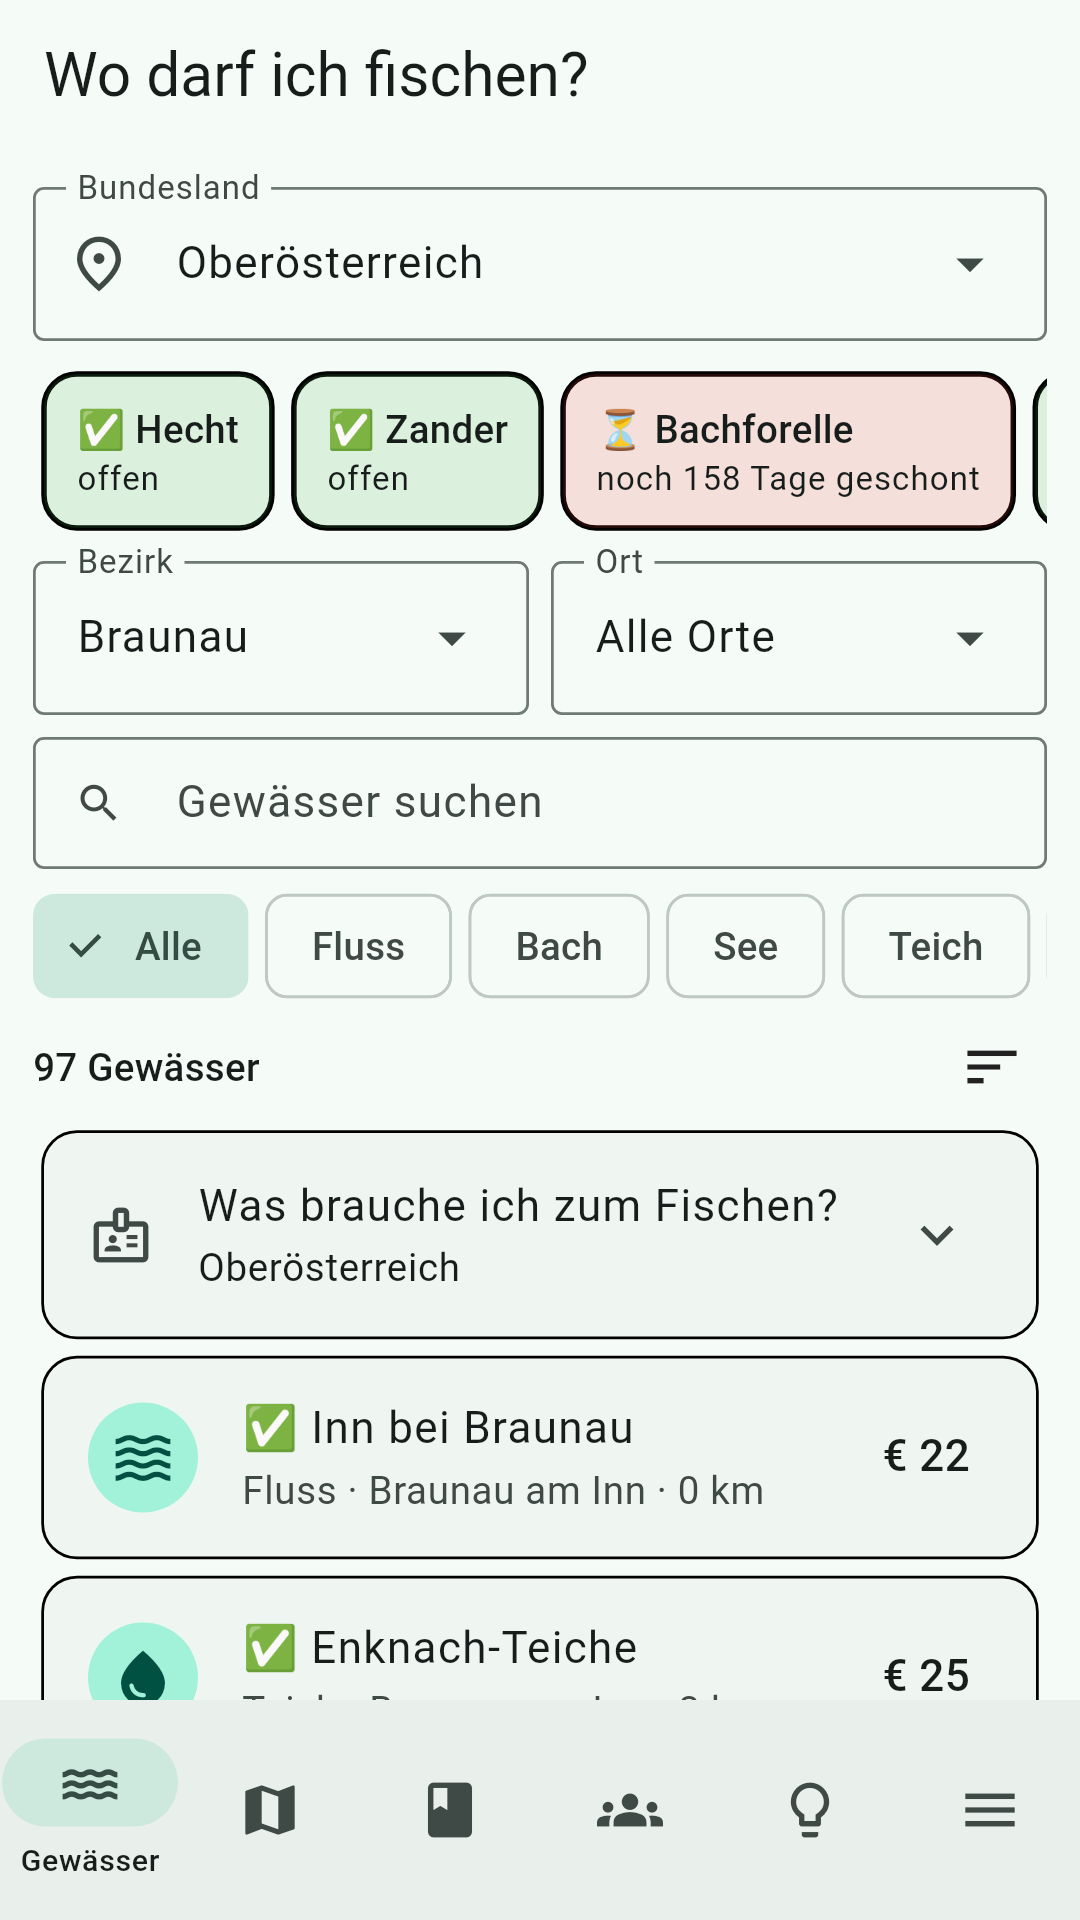
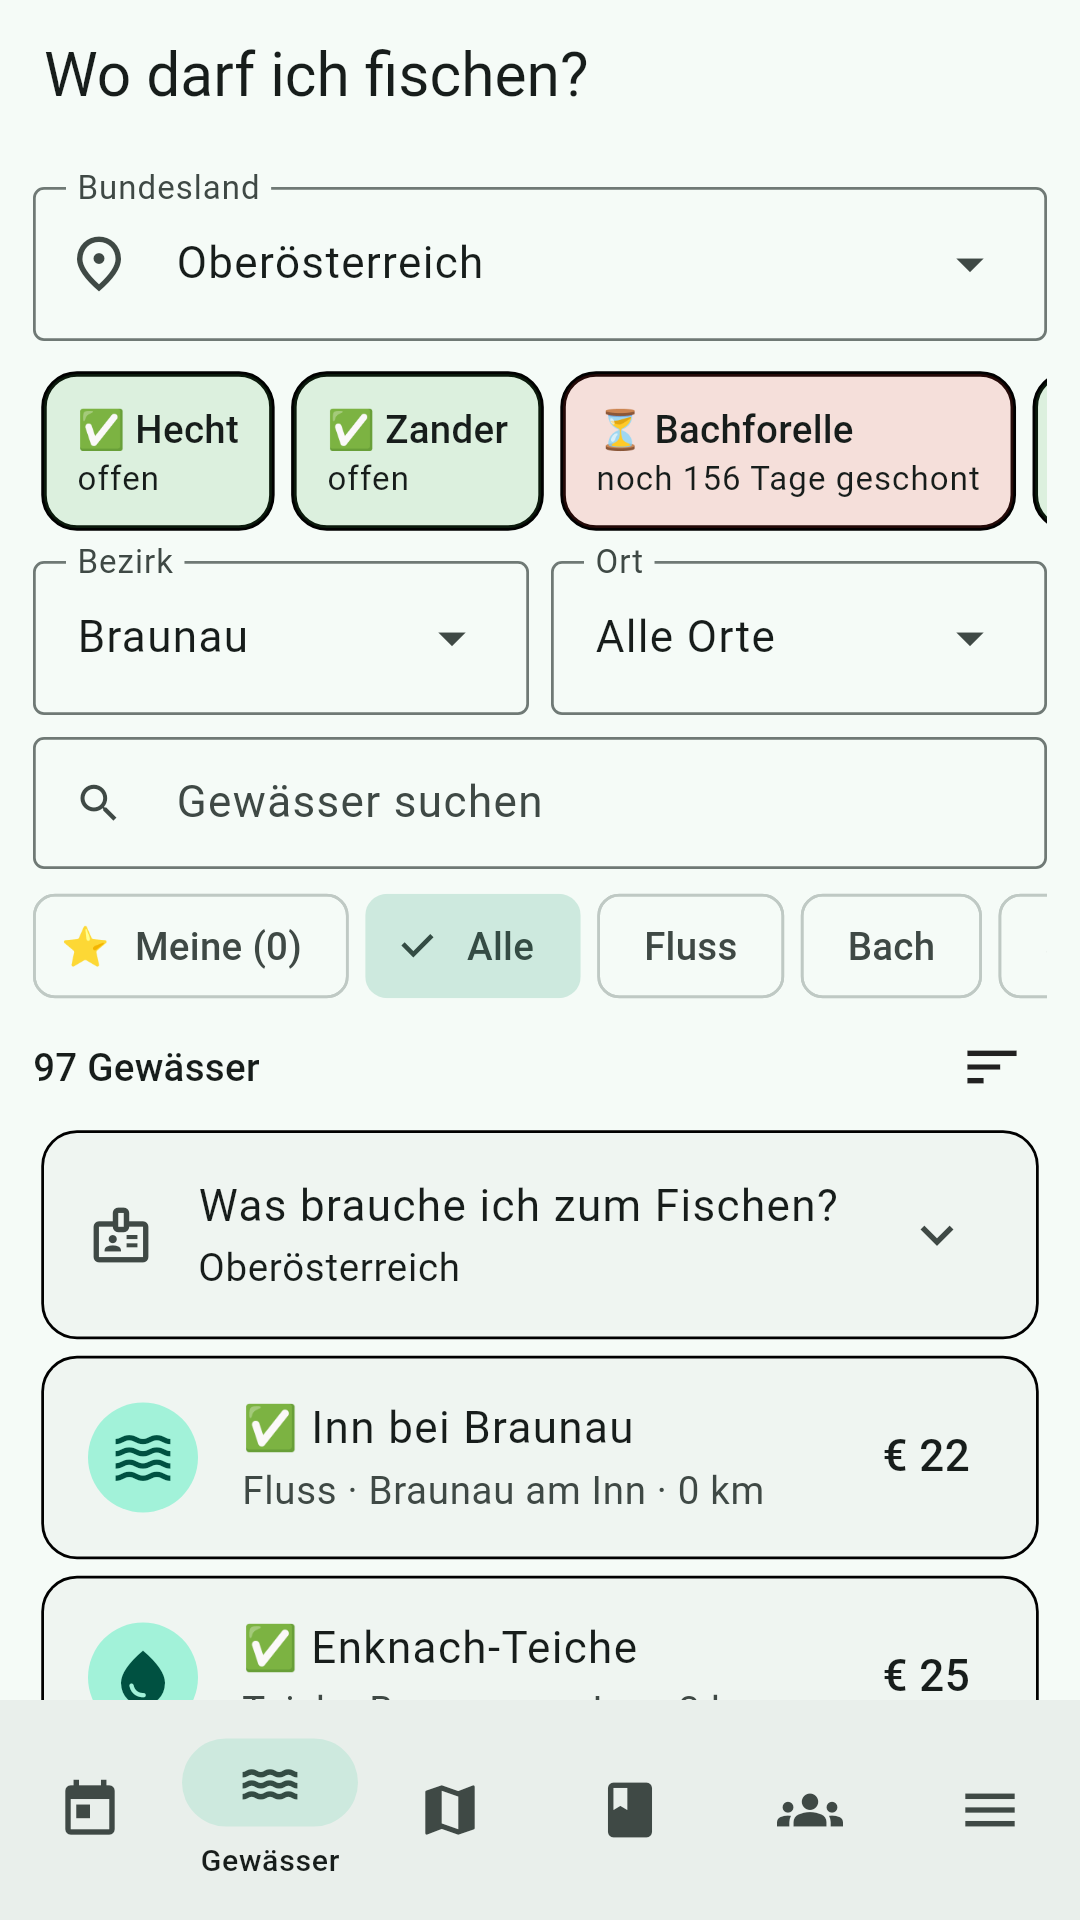
Update 1.1: Was-ist-neu mit Darf-ich-Check im Mittelpunkt, Updates in der App
In-App-Update über Google Play (flexibel, Hinweis zum Neustart);
„Was ist neu?“ erscheint einmal nach dem Update und unter Mehr.
Neue Store-Screenshots und Versionshinweise.

Claude-Session: https://claude.ai/code/session_01JSqKKxvkfQShscKWMRN2jr

diff --git a/apps/austro_angler/lib/screens/neu_screen.dart b/apps/austro_angler/lib/screens/neu_screen.dart
@@ -1,0 +1,219 @@
+import 'package:flutter/material.dart';
+import 'package:package_info_plus/package_info_plus.dart';
+
+import '../main.dart';
+import '../services/darf_ich.dart';
+import 'album_screen.dart';
+import 'darf_ich_screen.dart';
+import 'premium_screen.dart';
+import 'wettfischen_screen.dart';
+import 'zielfisch_screen.dart';
+
+/// Stand der Neuigkeiten. Bei jedem Update mit neuem „Was ist neu“ erhöhen.
+const neuigkeitenStand = 11;
+
+/// „Was ist neu?“ – nach einem Update einmal gezeigt, sonst unter Mehr.
+class NeuScreen extends StatelessWidget {
+  const NeuScreen({super.key});
+
+  static final _version = PackageInfo.fromPlatform()
+      .then((i) => i.version, onError: (_) => '');
+
+  void _oeffnen(BuildContext context, Widget seite) =>
+      Navigator.of(context).push(MaterialPageRoute(builder: (_) => seite));
+
+  @override
+  Widget build(BuildContext context) {
+    final text = Theme.of(context).textTheme;
+    return Scaffold(
+      appBar: AppBar(title: const Text('Was ist neu?')),
+      body: ListView(
+        padding: const EdgeInsets.all(16),
+        children: [
+          FutureBuilder<String>(
+            future: _version,
+            builder: (context, snap) => Text(
+              'Update 1.1${(snap.data ?? '').isEmpty ? '' : ' · Version ${snap.data}'}',
+              style: text.labelLarge,
+            ),
+          ),
+          const SizedBox(height: 8),
+          const _DarfIchHeld(),
+          const SizedBox(height: 16),
+          Text('Außerdem neu', style: text.titleLarge),
+          const SizedBox(height: 8),
+          _Punkt('🏠', 'Heute-Startseite',
+              'Wetter, Beißzeit, deine Gewässer und Lieblingsfische auf einen Blick.'),
+          _Punkt('🎯', 'Zielfisch-Modus',
+              '„Ich will Hecht“ → wo, wann und mit welchem Köder.',
+              () => _oeffnen(context, const ZielfischScreen())),
+          _Punkt('⭐', 'Gewässer folgen',
+              'Stern antippen – deine Gewässer stehen immer oben.'),
+          _Punkt('🏆', 'Eigene Wettfischen',
+              'Mit Freunden oder dem Verein, per Code. Mit Rangliste und Urkunde.',
+              () => _oeffnen(context, const WettfischenScreen())),
+          _Punkt('📒', 'Arten-Sammelalbum',
+              'Sammle alle Fischarten Österreichs – von häufig bis legendär.',
+              () => _oeffnen(context, const AlbumScreen())),
+          _Punkt('⚖', 'Gewicht schätzen',
+              'Länge eingeben, das Gewicht wird für die Fischart geschätzt.'),
+          _Punkt('🔔', 'Benachrichtigungen',
+              'Glocke mit Zähler für Petri Heil, Kommentare und Freunde.'),
+          _Punkt('🔗', 'Fang-Link teilen',
+              'Ein Link zu deinem Fang – öffnet sich auch ohne App.'),
+          _Punkt('📊', 'Fangbuch als CSV',
+              'Alle Fänge als Tabelle für Excel – deine Daten gehören dir.'),
+          _Punkt('🥇', 'Rangliste für viele',
+              'Schneller und bereit für ganz Österreich.'),
+          _Punkt('⬇', 'Updates in der App',
+              'Neue Versionen laden im Hintergrund – ein Tipp zum Neustarten.'),
+          const SizedBox(height: 16),
+          FilledButton(
+            onPressed: () => Navigator.of(context).pop(),
+            child: const Text('Los geht’s – Petri Heil!'),
+          ),
+        ],
+      ),
+    );
+  }
+}
+
+/// Der Darf-ich-Check groß vorgestellt – mit Beispiel-Frage und -Antwort.
+class _DarfIchHeld extends StatelessWidget {
+  const _DarfIchHeld();
+
+  @override
+  Widget build(BuildContext context) {
+    final farben = Theme.of(context).colorScheme;
+    final text = Theme.of(context).textTheme;
+    final premium = hatPremium(context);
+    const frage = 'Darf ich morgen am Inn einen 45 cm Zander mitnehmen?';
+    final a = darfIch.fragen(
+        frage, DateTime.now(), SpeicherScope.of(context).bundesland);
+    final (symbol, farbe) = switch (a.ampel) {
+      Ampel.ja => ('✅', Colors.green),
+      Ampel.achtung => ('⚠', Colors.orange),
+      Ampel.nein => ('⛔', Colors.red),
+      Ampel.info => ('💡', Colors.blue),
+    };
+    return Card(
+      clipBehavior: Clip.antiAlias,
+      child: Column(
+        crossAxisAlignment: CrossAxisAlignment.stretch,
+        children: [
+          Container(
+            padding: const EdgeInsets.all(16),
+            decoration: BoxDecoration(
+              gradient: LinearGradient(
+                colors: [farben.primary, farben.tertiary],
+                begin: Alignment.topLeft,
+                end: Alignment.bottomRight,
+              ),
+            ),
+            child: Column(
+              crossAxisAlignment: CrossAxisAlignment.start,
+              children: [
+                Row(
+                  children: [
+                    const Text('🤔', style: TextStyle(fontSize: 40)),
+                    const SizedBox(width: 12),
+                    Expanded(
+                      child: Text('Neu: „Darf ich …?“',
+                          style: text.headlineSmall
+                              ?.copyWith(color: farben.onPrimary)),
+                    ),
+                  ],
+                ),
+                const SizedBox(height: 8),
+                Text(
+                  'Frag einfach, wie du redest. Die App versteht Fisch, '
+                  'Gewässer, Tag und Länge – auch Mundart wie Waller, Rutte '
+                  'oder Renke und Tippfehler – und antwortet sofort aus den '
+                  'Schonzeiten und Brittelmaßen der Landesgesetze. '
+                  'Funktioniert auch offline.',
+                  style: TextStyle(color: farben.onPrimary),
+                ),
+              ],
+            ),
+          ),
+          Padding(
+            padding: const EdgeInsets.all(16),
+            child: Column(
+              crossAxisAlignment: CrossAxisAlignment.start,
+              children: [
+                Align(
+                  alignment: Alignment.centerRight,
+                  child: Container(
+                    padding: const EdgeInsets.all(12),
+                    decoration: BoxDecoration(
+                      color: farben.primaryContainer,
+                      borderRadius: BorderRadius.circular(16),
+                    ),
+                    child: const Text(frage),
+                  ),
+                ),
+                const SizedBox(height: 8),
+                Container(
+                  padding: const EdgeInsets.all(12),
+                  decoration: BoxDecoration(
+                    color: farbe.withValues(alpha: 0.12),
+                    borderRadius: BorderRadius.circular(16),
+                    border: Border.all(color: farbe.withValues(alpha: 0.6)),
+                  ),
+                  child: Row(
+                    crossAxisAlignment: CrossAxisAlignment.start,
+                    children: [
+                      Text(symbol, style: const TextStyle(fontSize: 28)),
+                      const SizedBox(width: 10),
+                      Expanded(
+                        child: Column(
+                          crossAxisAlignment: CrossAxisAlignment.start,
+                          children: [
+                            Text(a.titel, style: text.titleMedium),
+                            if (a.punkte.isNotEmpty) Text(a.punkte.first),
+                          ],
+                        ),
+                      ),
+                    ],
+                  ),
+                ),
+                const SizedBox(height: 12),
+                FilledButton.icon(
+                  onPressed: () => Navigator.of(context).push(
+                      MaterialPageRoute(
+                          builder: (_) => premium
+                              ? const DarfIchScreen()
+                              : const PremiumScreen())),
+                  icon: const Icon(Icons.chat_bubble_outline),
+                  label: Text(premium
+                      ? 'Jetzt fragen'
+                      : '⭐ Mit Premium – 7 Tage gratis testen'),
+                ),
+              ],
+            ),
+          ),
+        ],
+      ),
+    );
+  }
+}
+
+class _Punkt extends StatelessWidget {
+  const _Punkt(this.symbol, this.titel, this.text, [this.onTap]);
+
+  final String symbol;
+  final String titel;
+  final String text;
+  final VoidCallback? onTap;
+
+  @override
+  Widget build(BuildContext context) => Card(
+        child: ListTile(
+          leading: Text(symbol, style: const TextStyle(fontSize: 26)),
+          title: Text(titel),
+          subtitle: Text(text),
+          trailing: onTap == null ? null : const Icon(Icons.chevron_right),
+          onTap: onTap,
+        ),
+      );
+}

diff --git a/apps/austro_angler/lib/services/update.dart b/apps/austro_angler/lib/services/update.dart
@@ -1,0 +1,39 @@
+import 'package:flutter/foundation.dart';
+import 'package:flutter/material.dart';
+import 'package:in_app_update/in_app_update.dart';
+
+/// Fragt Google Play nach einer neuen Version und lädt sie im Hintergrund.
+/// Ist sie fertig, kommt unten ein Hinweis mit „Jetzt neu starten“.
+/// Außerhalb von Play (z. B. Test-APK) passiert einfach nichts.
+Future<void> updatePruefen(ScaffoldMessengerState messenger) async {
+  if (kIsWeb || kDebugMode || defaultTargetPlatform != TargetPlatform.android) {
+    return;
+  }
+  try {
+    final info = await InAppUpdate.checkForUpdate();
+    if (info.installStatus == InstallStatus.downloaded) {
+      _fertig(messenger);
+      return;
+    }
+    if (info.updateAvailability != UpdateAvailability.updateAvailable ||
+        !info.flexibleUpdateAllowed) {
+      return;
+    }
+    final ergebnis = await InAppUpdate.startFlexibleUpdate();
+    if (ergebnis == AppUpdateResult.success) _fertig(messenger);
+  } catch (e) {
+    debugPrint('Update: $e');
+  }
+}
+
+void _fertig(ScaffoldMessengerState messenger) {
+  messenger.showSnackBar(SnackBar(
+    duration: const Duration(days: 1),
+    content: const Text('Neue Version von Austro Angler ist bereit 🎣'),
+    action: SnackBarAction(
+      label: 'Neu starten',
+      onPressed: () => InAppUpdate.completeFlexibleUpdate()
+          .catchError((Object e) => debugPrint('Update: $e')),
+    ),
+  ));
+}

diff --git a/apps/austro_angler/lib/main.dart b/apps/austro_angler/lib/main.dart
@@ -5,11 +5,13 @@ import 'package:flutter/material.dart';
 
 import 'firebase_options.dart';
 import 'screens/einfuehrung_screen.dart';
+import 'services/update.dart';
 import 'screens/community_screen.dart';
 import 'screens/fangbuch_screen.dart';
 import 'screens/gewaesser_screen.dart';
 import 'screens/aktivitaeten_screen.dart';
 import 'screens/heute_screen.dart';
+import 'screens/neu_screen.dart';
 import 'screens/karte_screen.dart';
 import 'screens/konto_screen.dart';
 import 'screens/mehr_screen.dart';
@@ -162,10 +164,17 @@ class _StartseiteState extends State<Startseite> {
       final speicher = SpeicherScope.of(context);
       startbildschirmAktualisieren(speicher);
       if (!speicher.einfuehrungGesehen) {
+        // Neu installiert: Einführung statt „Was ist neu?“.
+        speicher.wasIstNeuErledigt(neuigkeitenStand);
         Navigator.of(context).push(MaterialPageRoute(
             fullscreenDialog: true,
             builder: (_) => const EinfuehrungScreen()));
+      } else if (speicher.wasIstNeuGesehen < neuigkeitenStand) {
+        speicher.wasIstNeuErledigt(neuigkeitenStand);
+        Navigator.of(context).push(MaterialPageRoute(
+            fullscreenDialog: true, builder: (_) => const NeuScreen()));
       }
+      updatePruefen(ScaffoldMessenger.of(context));
     });
   }
 

diff --git a/apps/austro_angler/lib/services/speicher.dart b/apps/austro_angler/lib/services/speicher.dart
@@ -46,6 +46,9 @@ class Speicher extends ChangeNotifier {
   /// Einführung beim ersten Start schon gezeigt?
   bool einfuehrungGesehen = false;
 
+  /// Bis zu welchem Stand „Was ist neu?“ gezeigt wurde.
+  int wasIstNeuGesehen = 0;
+
   /// Bis wann die Neuigkeiten (Glocke) gelesen sind.
   DateTime neuigkeitenGesehen = DateTime.fromMillisecondsSinceEpoch(0);
 
@@ -69,6 +72,7 @@ class Speicher extends ChangeNotifier {
     heimatLon = _prefs.getDouble('heimatLon');
     jungangler = _prefs.getBool('jungangler') ?? false;
     einfuehrungGesehen = _prefs.getBool('einfuehrung') ?? false;
+    wasIstNeuGesehen = _prefs.getInt('wasIstNeu') ?? 0;
     neuigkeitenGesehen = DateTime.fromMillisecondsSinceEpoch(
         _prefs.getInt('neuigkeitenGesehen') ?? 0);
     favoriten = _prefs.getStringList('favoriten') ?? const [];
@@ -110,6 +114,11 @@ class Speicher extends ChangeNotifier {
     notifyListeners();
     await _prefs.setInt(
         'neuigkeitenGesehen', neuigkeitenGesehen.millisecondsSinceEpoch);
+  }
+
+  Future<void> wasIstNeuErledigt(int stand) async {
+    wasIstNeuGesehen = stand;
+    await _prefs.setInt('wasIstNeu', stand);
   }
 
   Future<void> einfuehrungErledigt() async {

diff --git a/apps/austro_angler/screenshots/store_test.dart b/apps/austro_angler/screenshots/store_test.dart
@@ -10,6 +10,7 @@ import 'package:austro_angler/data/fische.dart';
 import 'package:austro_angler/main.dart';
 import 'package:austro_angler/screens/album_screen.dart';
 import 'package:austro_angler/screens/darf_ich_screen.dart';
+import 'package:austro_angler/screens/neu_screen.dart';
 import 'package:austro_angler/screens/einfuehrung_screen.dart';
 import 'package:austro_angler/screens/zielfisch_screen.dart';
 import 'package:austro_angler/screens/kalender_screen.dart';
@@ -73,7 +74,7 @@ Future<void> _starten(WidgetTester tester) async {
   tester.view.devicePixelRatio = 2.75;
   addTearDown(tester.view.reset);
   SharedPreferences.setMockInitialValues({
-    'einfuehrung': true,
+    'einfuehrung': true, 'wasIstNeu': 99,
     'bundesland': 'Oberösterreich',
     'bezirk': 'Braunau',
     'heimat': 'Oberösterreich|Braunau|Braunau am Inn',
@@ -224,5 +225,11 @@ void main() {
     await _starten(tester);
     await _oeffnen(tester, const AlbumScreen());
     await _foto(tester, '12_album');
+  });
+
+  testWidgets('13 Was ist neu', (tester) async {
+    await _starten(tester);
+    await _oeffnen(tester, const NeuScreen());
+    await _foto(tester, '13_neu');
   });
 }

diff --git a/apps/austro_angler/lib/screens/mehr_screen.dart b/apps/austro_angler/lib/screens/mehr_screen.dart
@@ -15,6 +15,7 @@ import 'premium_screen.dart';
 import 'geschaefte_screen.dart';
 import 'heimat_screen.dart';
 import 'koeder_screen.dart';
+import 'neu_screen.dart';
 import 'lizenzen_screen.dart';
 import 'quiz_screen.dart';
 import 'vereine_screen.dart';
@@ -76,6 +77,9 @@ class MehrScreen extends StatelessWidget {
           _Eintrag(Icons.lightbulb_outline, 'Wünsche & Ideen',
               'Was soll die App noch können?', () => _oeffnen(context,
                   const WuenscheScreen())),
+          _Eintrag(Icons.new_releases_outlined, 'Was ist neu?',
+              'Alle Neuerungen von Update 1.1', () => _oeffnen(context,
+                  const NeuScreen())),
           _Eintrag(Icons.waving_hand_outlined, 'Einführung ansehen',
               'Die App in 6 Schritten erklärt', () => _oeffnen(context,
                   const EinfuehrungScreen())),

diff --git a/apps/austro_angler/test/klicktest.dart b/apps/austro_angler/test/klicktest.dart
@@ -17,6 +17,7 @@ const _mehr = [
   'Darf ich …? ⭐',
   'Zielfisch',
   'Wünsche & Ideen',
+  'Was ist neu?',
   'Einführung ansehen',
   'FAQ – Fragen & Antworten',
   'Statistik & Abzeichen',
@@ -55,7 +56,7 @@ Future<void> _starten(WidgetTester tester) async {
   tester.view.physicalSize = const Size(1080, 2400);
   tester.view.devicePixelRatio = 2.5;
   addTearDown(tester.view.reset);
-  SharedPreferences.setMockInitialValues({'einfuehrung': true});
+  SharedPreferences.setMockInitialValues({'einfuehrung': true, 'wasIstNeu': 99});
   final speicher = await Speicher.oeffnen();
   await tester.runAsync(alleGewaesser.laden);
   await tester.pumpWidget(AustroAnglerApp(speicher: speicher));

diff --git a/apps/austro_angler/test/widget_test.dart b/apps/austro_angler/test/widget_test.dart
@@ -181,7 +181,7 @@ void main() {
 
   testWidgets('App startet ohne Firebase und alle Tabs öffnen',
       (tester) async {
-    SharedPreferences.setMockInitialValues({'einfuehrung': true});
+    SharedPreferences.setMockInitialValues({'einfuehrung': true, 'wasIstNeu': 99});
     final speicher = await Speicher.oeffnen();
     await tester.runAsync(alleGewaesser.laden);
     await tester.pumpWidget(AustroAnglerApp(speicher: speicher));
